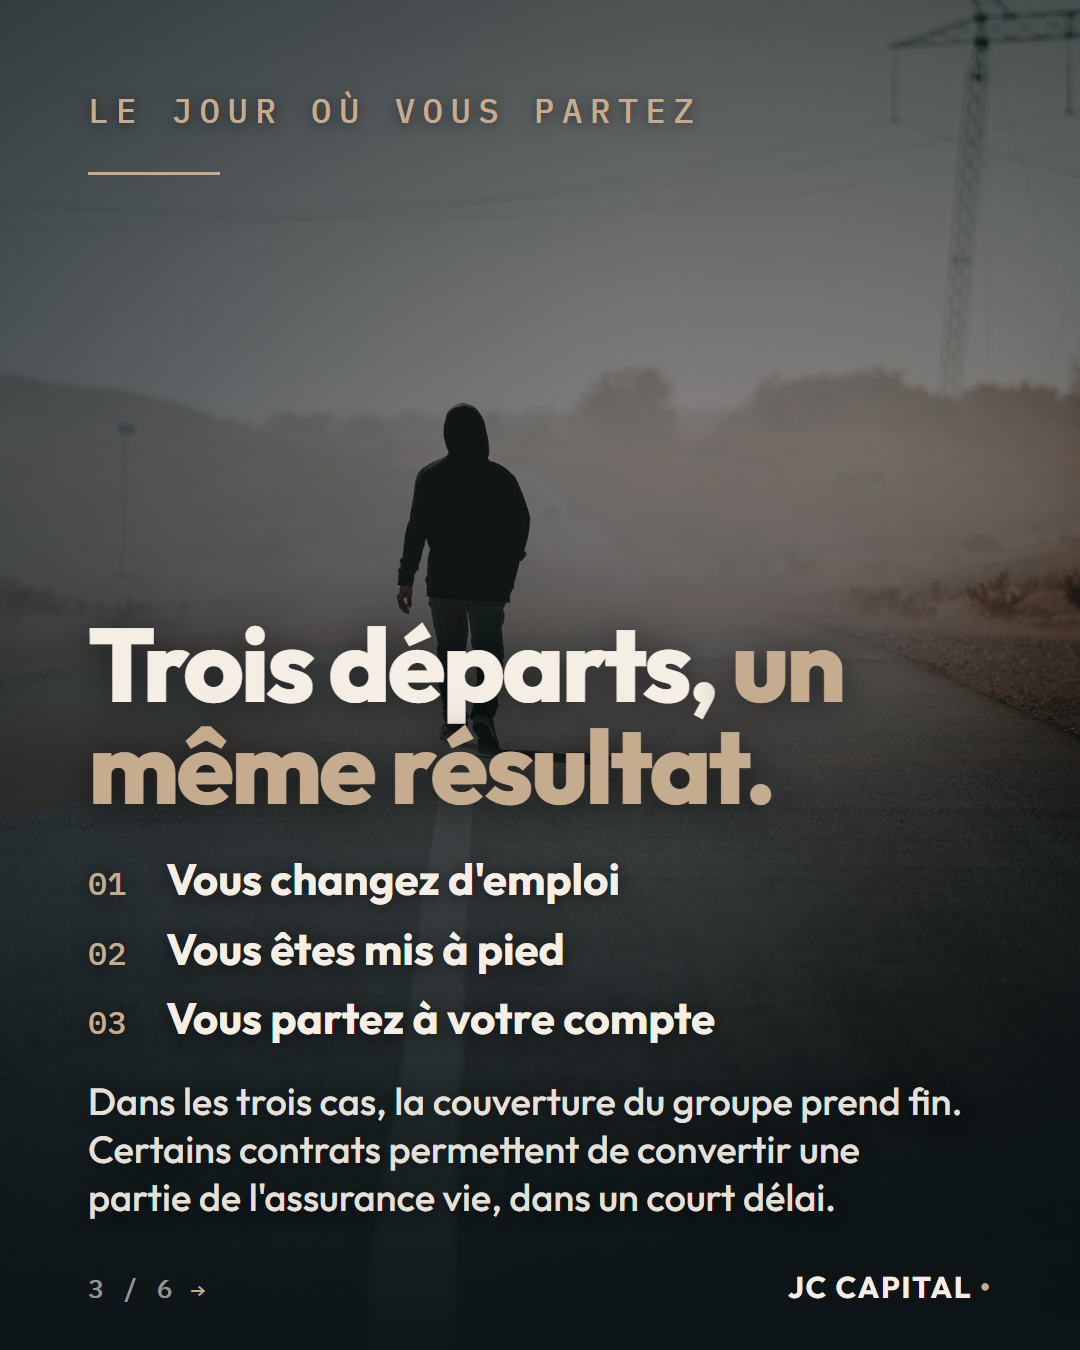
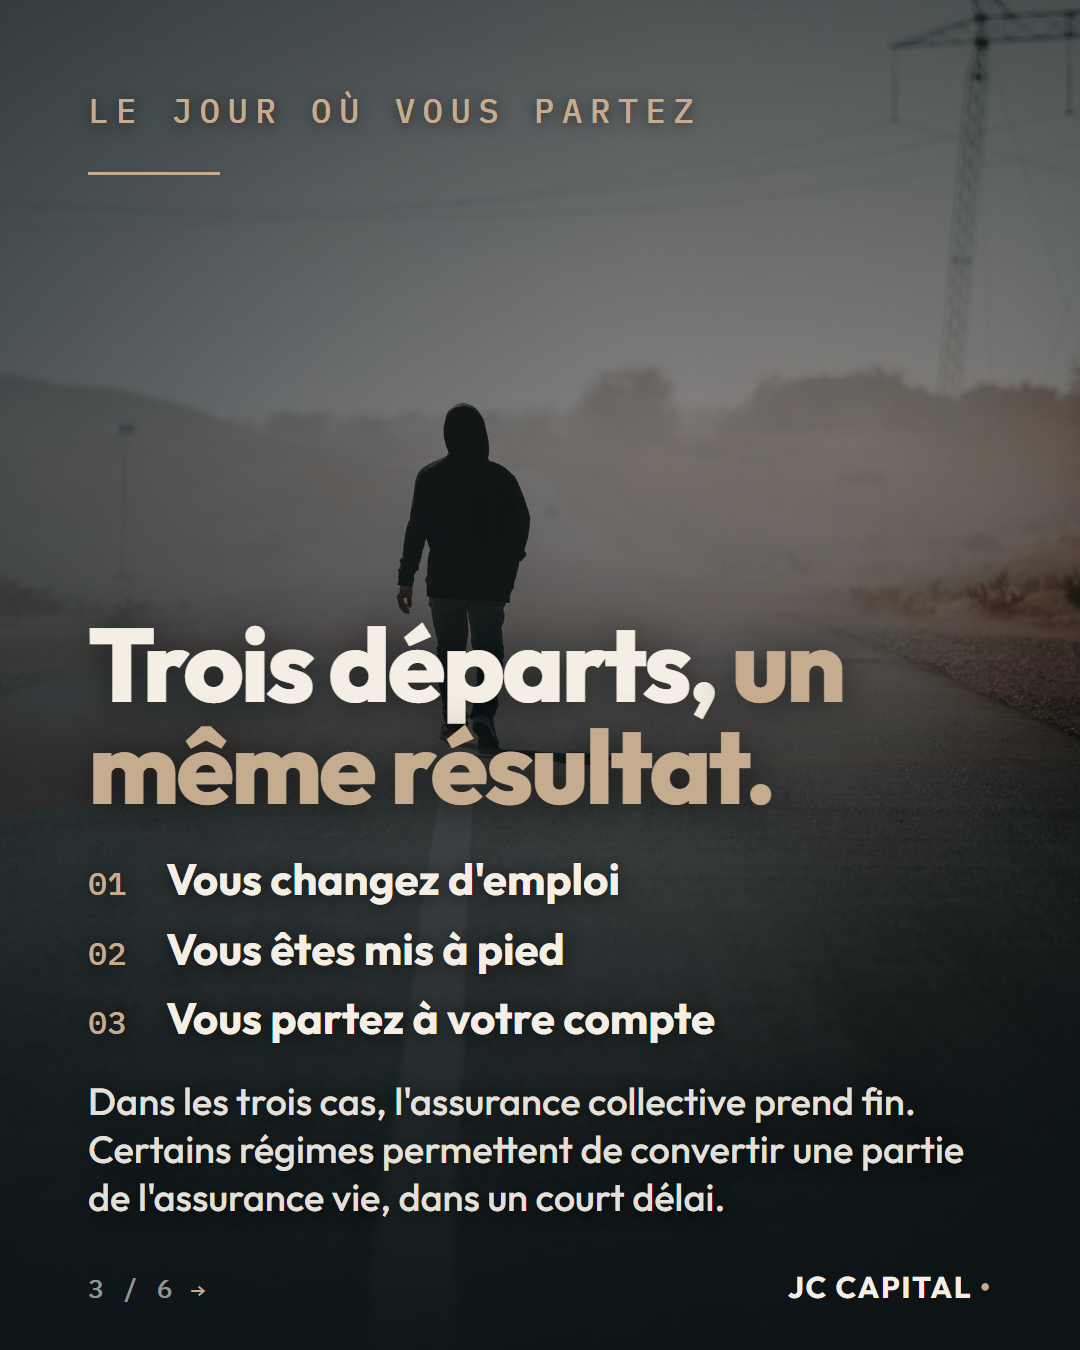
Carrousel mythe employeur v2 : vocabulaire assurance collective / avantages sociaux

Changed region(s): [[0.0917, 0.8089, 0.8861, 0.9022]]

diff --git a/marketing/carrousels/2026-11-11-mythe-employeur-v2.js b/marketing/carrousels/2026-11-11-mythe-employeur-v2.js
@@ -52,29 +52,29 @@ const page = (p, i, n) => `<!doctype html><html lang="fr"><head><meta charset="u
 const id = '2026-11-11-mythe-employeur-v2';
 const slides = [
   { photo: 8487720, pos: '50% 40%', bright: .78, veilTop: .6, strike: true,
-    eyebrow: 'Mythe · Vérité', small: '« L\'assurance de mon employeur me suffit. »',
+    eyebrow: 'Mythe · Vérité', small: '« Mon assurance collective me suffit. »',
     h1: 'Elle part <em>quand vous partez.</em>', h1Size: 112,
-    sub: 'Changement d\'emploi, mise à pied, lancement d\'entreprise : la collective disparaît, souvent au pire moment.' },
+    sub: 'Changement d\'emploi, mise à pied, lancement d\'entreprise : vos avantages sociaux disparaissent, souvent au pire moment.' },
   { photo: 5483147, pos: '50% 30%', bright: .9, veilTop: .45,
     eyebrow: 'Souvent vrai',
-    h1: 'Assuré au travail. <em>Mais pas à vous.</em>',
-    sub: 'L\'assurance vie et l\'assurance salaire du groupe appartiennent au contrat de votre employeur. Vous en profitez tant que vous y travaillez. Pas un jour de plus.' },
+    h1: 'Assuré par la collective. <em>Mais pas à vous.</em>',
+    sub: 'L\'assurance vie et l\'assurance salaire de votre régime collectif font partie de vos avantages sociaux. Elles appartiennent au contrat de l\'employeur, tant que vous y travaillez. Pas un jour de plus.' },
   { photo: 28666795, pos: '50% 85%', bright: .85, veilTop: .5, sat: .9,
     eyebrow: 'Le jour où vous partez',
     h1: 'Trois départs, <em>un même résultat.</em>',
     items: ['Vous changez d\'emploi', 'Vous êtes mis à pied', 'Vous partez à votre compte'],
-    sub: 'Dans les trois cas, la couverture du groupe prend fin. Certains contrats permettent de convertir une partie de l\'assurance vie, dans un court délai.' },
+    sub: 'Dans les trois cas, l\'assurance collective prend fin. Certains régimes permettent de convertir une partie de l\'assurance vie, dans un court délai.' },
   { photo: 6753424, pos: '50% 50%', bright: .6, veilTop: .55, sat: .8,
     eyebrow: 'Le vrai piège',
-    h1: 'Au travail, assuré <em>sans questions.</em>',
+    h1: 'Avec la collective, assuré <em>sans questions.</em>',
     sub: 'Seul, votre santé du moment compte. Un diagnostic reçu entre-temps peut faire grimper la prime, ou fermer la porte.' },
   { photo: 33702577, pos: '50% 45%', bright: .95, veilTop: .45,
     eyebrow: 'Ce qui vous appartient',
     h1: 'Une assurance à vous <em>vous suit partout.</em>',
-    items: ['Elle ne dépend pas de votre emploi', 'Elle se prend pendant que tout va bien', 'Elle complète la collective, tant que vous l\'avez'] },
+    items: ['Elle ne dépend pas de votre emploi', 'Elle se prend pendant que tout va bien', 'Elle complète l\'assurance collective, tant que vous l\'avez'] },
   { photo: 814544, pos: '50% 50%', bright: .7, veilTop: .55, sat: 1,
     eyebrow: 'Et vous ?',
-    h1: 'Que resterait‑il <em>si vous quittiez demain ?</em>',
+    h1: 'Sans la collective, <em>que vous resterait‑il ?</em>',
     cta: 'Faites le diagnostic assurance :<br><strong>jccapital.ca</strong> › Assurance<br>ou écrivez <strong>PLAN</strong> en message.',
     note: 'Joël Camiré, conseiller en sécurité financière (JC Capital).' },
 ];
